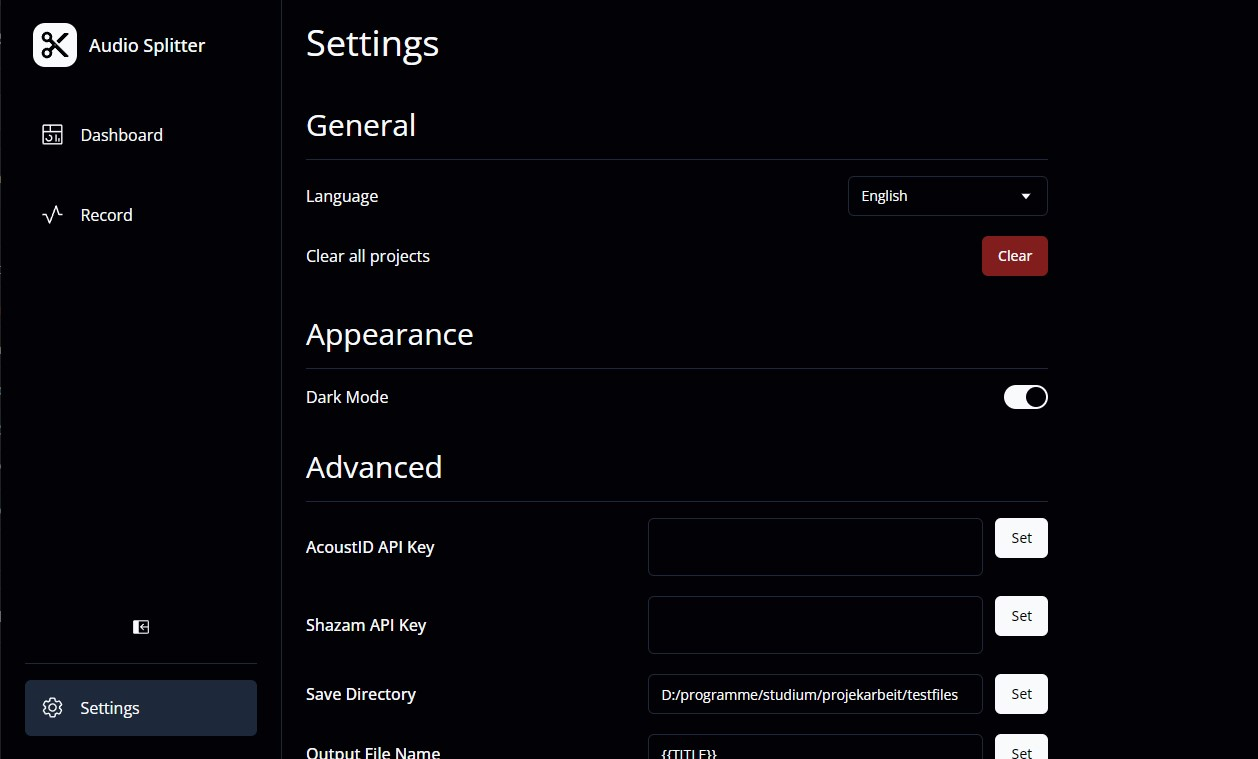
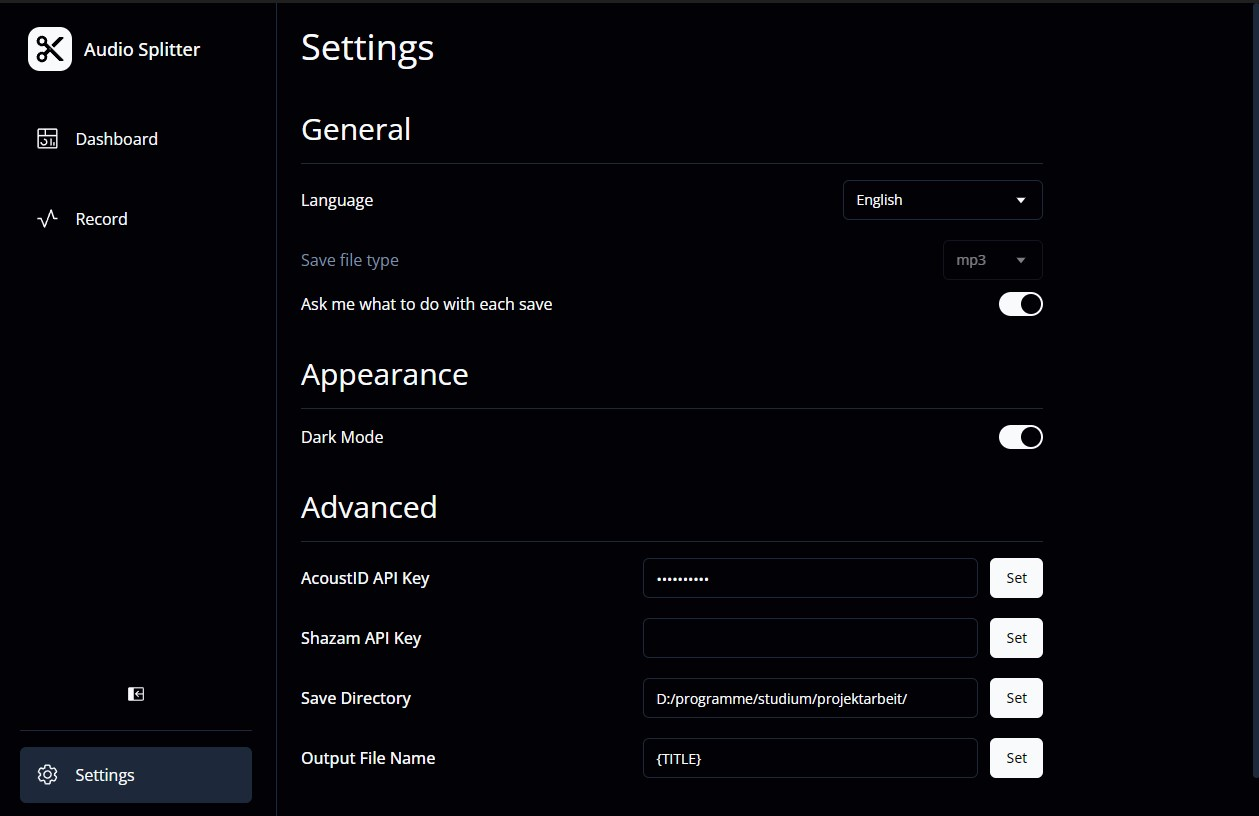
docs and test fixes

diff --git a/src/backend/tests/test_file_name_formatter.py b/src/backend/tests/test_file_name_formatter.py
@@ -25,7 +25,7 @@ def test_replace_all_order():
 
 
 def test_format_file_name_full():
-    format = "{{ARTIST}}_{{TITLE}}_{{ALBUM}}_{{YEAR}}"
+    format = "{ARTIST}_{TITLE}_{ALBUM}_{YEAR}"
     assert (
         format_file_name(format, "MySong", "Arty", "ablum", "2003")
         == "Arty_MySong_ablum_2003"

diff --git a/README.MD b/README.MD
@@ -42,7 +42,7 @@ After completing the steps from [Setup](#setup), to split up a file, do the foll
 6. Open your new project by clicking it, then click "Process" to process the file. This will take a while, so do not worry if it seems to be stuck here for a few minutes.
 7. After processing is finished, you will see a list of songs the app detected.
 8. If a song's data seems off to you, see if the "Edit" button (represented by the pen icon) is enabled (not greyed out). If it is, click it and choose the correct metadata.
-9. Click the save button (represented by the arrow pointing down) to save the song. If everything went well, the song has now successfully been saved to the location you specified before.
+9. Click the save button (represented by the arrow pointing down) to save the song. If everything went well, the song has now successfully been saved to the location you specified before. Alternatively use the "Save all" button to save all songs.
 
 #### Project View
 
@@ -56,9 +56,13 @@ Opening a project will show a screen like this:
 
 <p><img src="./assets/project_view.jpg" /></p>
 
-You can see the songs discovered by the app, edit their metadata (as of current, this means choosing which of the metadata the app found might fit) and save them to your device.
+Clicking "Process" will attempt to split the file up and identify the songs the app discovers. This will take a while, so do not worry if it seems to be stuck for a few minutes after starting the processing.
 
-If a bit of metadata says "unknown" (such as the "album" for "Bad Chick" in this example screenshot), that means the app couldn't identify it. Setting it manually is a planned feature for a future version.
+The "Preset" drop-down allows you to choose between different sets of parameters for the splitting. You can usually leave this setting on "Normal", but if you notice excessive splitting errors, this can help alleviate them.
+
+Once processing is done, you can see the songs discovered by the app, edit their metadata (as of current, this means choosing which of the metadata the app found might fit) and save them to your device. The "Save all" button will save every song.
+
+If a bit of metadata says "unknown" (such as the "album" for "Hold The Line" in this example screenshot), that means the app couldn't identify it. Setting it manually is a planned feature for a future version.
 
 #### Recording
 
@@ -77,6 +81,8 @@ The settings tab allows you to configure AudioStreamSplitting to your liking:
 <p><img src="./assets/settings.jpg" /></p>
 
 The language field currently supports English, German, French and Spanish. Note that only the English and German translations are actively maintained, so translation issues will arise when using the other languages.
+
+Turning off the "Ask me what to do with each save" option allows choosing a file type, which all files will be saved as by default. If this is not set, you will instead be asked to choose a file type every time you save a file.
 
 The "Advanced" section is where the most important settings are situated. Note that for changes to these settings to apply, you must click the "Set" button next to the setting you changed.
 

diff --git a/docs/backend/backend_module_docs/file_name_formatter.md b/docs/backend/backend_module_docs/file_name_formatter.md
@@ -13,7 +13,7 @@ Public functions:
 
 ### format_file_name
 
-Format a file name based on the given template and metadata. The template should contain at least one of the placeholders ``{{TITLE}}``, ``{{ARTIST}}``, ``{{ALBUM}}``, ``{{YEAR}}``, which will be replaced with the provided metadata.
+Format a file name based on the given template and metadata. The template should contain at least one of the placeholders ``{TITLE}``, ``{ARTIST}``, ``{ALBUM}``, ``{YEAR}``, which will be replaced with the provided metadata.
 
 #### format_file_name:Arguments
 
